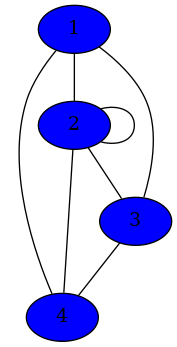
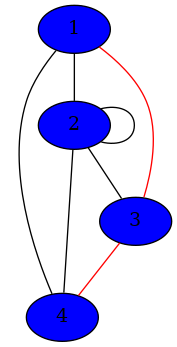
finished graphics

diff --git a/main.py b/main.py
@@ -123,7 +123,6 @@ class Ui_mainClass(object):
             adjMatrix.append([0 for i in range(size)])
 
         self.mainGraph = Graph(adjMatrix,size)
-        self.mainGraph.printAdjMatrix()
         self.tableView.setHorizontalHeaderLabels(table_headers)
         self.tableView.setVerticalHeaderLabels(table_headers)
         self.tableView.setRowCount(size)
@@ -135,13 +134,42 @@ class Ui_mainClass(object):
                 relationInput.setMinimum(0)
                 relationInput.setMaximum(1)
                 relationInput.setObjectName(""+str(row)+"-"+str(column))
+                relationInput.value()
                 relationInput.setValue(self.mainGraph.getAdjMatrix()[row][column])
                 self.tableView.setCellWidget(row,column,relationInput)
 
 
     def show_graph(self):
-        self.graphImage.setPixmap(QtGui.QPixmap("graph.png"))
-        self.pathImage.setPixmap(QtGui.QPixmap("graphPath.png"))
+        for row in range(self.tableView.rowCount()):
+            for column in range(self.tableView.rowCount()):
+                item = self.tableView.cellWidget(row,column)
+                if(int(item.value())==1):
+                    self.mainGraph.addEdge(row,column)
+                else:
+                    self.mainGraph.removeEdge(row,column)
+        self.mainGraph.generateGraph()
+        maxDegree, minDegree, sumDegree = self.mainGraph.getGraphDegrees()
+        self.degreeNumber.display(maxDegree)
+        self.degreeMinNumber.display(minDegree)
+        self.sumNumber.display(sumDegree)
+        pathValidate = self.pathInput.text()
+        if(pathValidate == "" or pathValidate==None):
+            self.pathInput.setPlaceholderText("Ingrese un camino válido")
+        else:
+            try:
+                path = [int(i) for i in pathValidate.split(",")]
+                value = self.mainGraph.drawPath(path)
+                if(value):
+                    self.graphImage.setPixmap(QtGui.QPixmap("graph.png"))
+                    self.pathImage.setPixmap(QtGui.QPixmap("graphPath.png"))
+                else:
+                    self.graphImage.setPixmap(QtGui.QPixmap("graph.png"))
+                    self.pathImage.setText("No se encontró un camino válido.")
+            except:
+                print("Not a valid path")
+
+        
+        
 
        
 

diff --git a/graph.py b/graph.py
@@ -1,5 +1,7 @@
+from os import remove
 import networkx as nx
 import matplotlib.pyplot as pl
+from networkx.classes import graph
 from networkx.drawing.nx_agraph import to_agraph
 
 class Graph:
@@ -20,7 +22,10 @@ class Graph:
         return (maxDegree, minDegree, sumDegree)
 
     def addEdge(self, vertex1, vertex2):
-        self.matrix[vertex1-1][vertex2-1] = 1
+        self.matrix[vertex1][vertex2] = 1
+
+    def removeEdge(self, vertex1, vertex2):
+        self.matrix[vertex1][vertex2] = 0
 
     def generateGraph(self):
         self.graph.add_nodes_from([i for i in (1, self.size)])
@@ -32,7 +37,7 @@ class Graph:
         self.graph.graph['node'] = {'style': 'filled', 'fillcolor': 'blue'}
         graphicGraph = to_agraph(self.graph)
         graphicGraph.layout("dot")
-        graphicGraph.draw("graphPath.png")
+        graphicGraph.draw("graph.png")
 
     def drawPath(self, pathArray=[]):
         arrayReturn = pathArray
